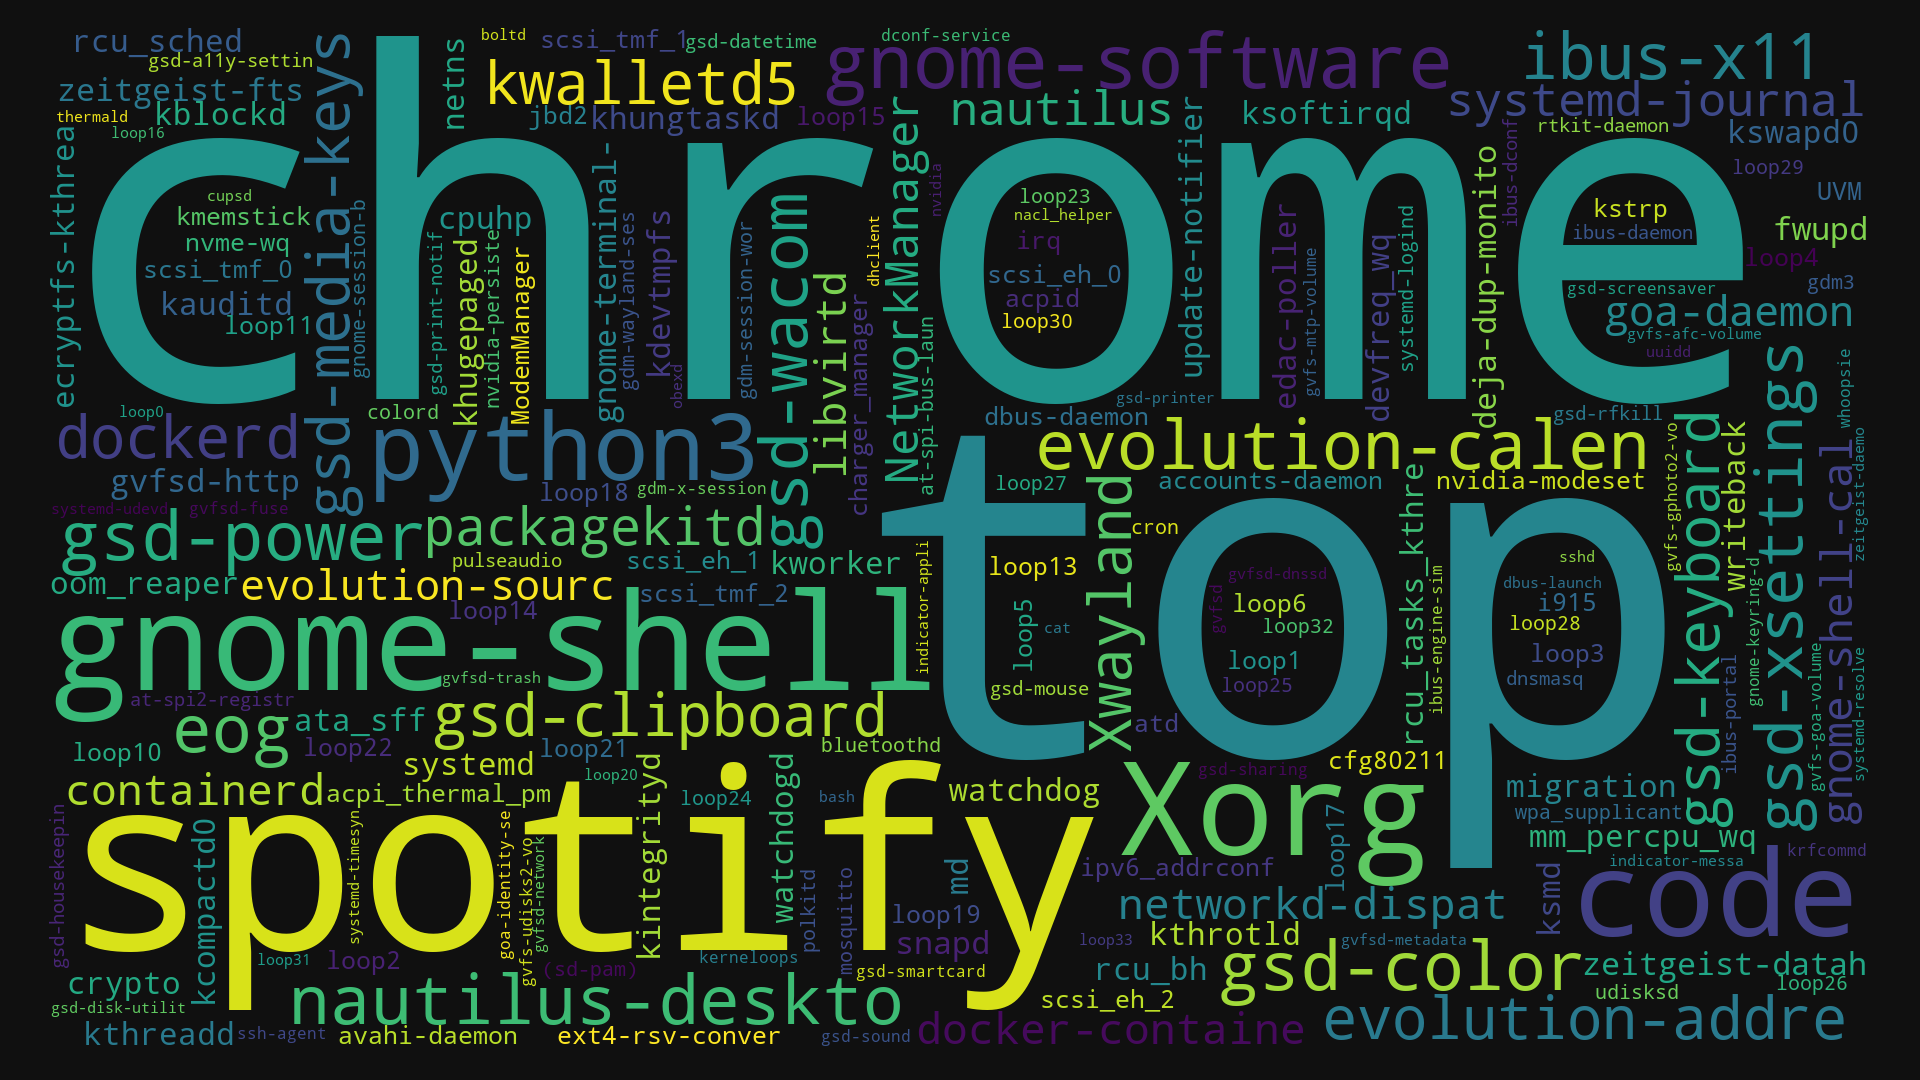
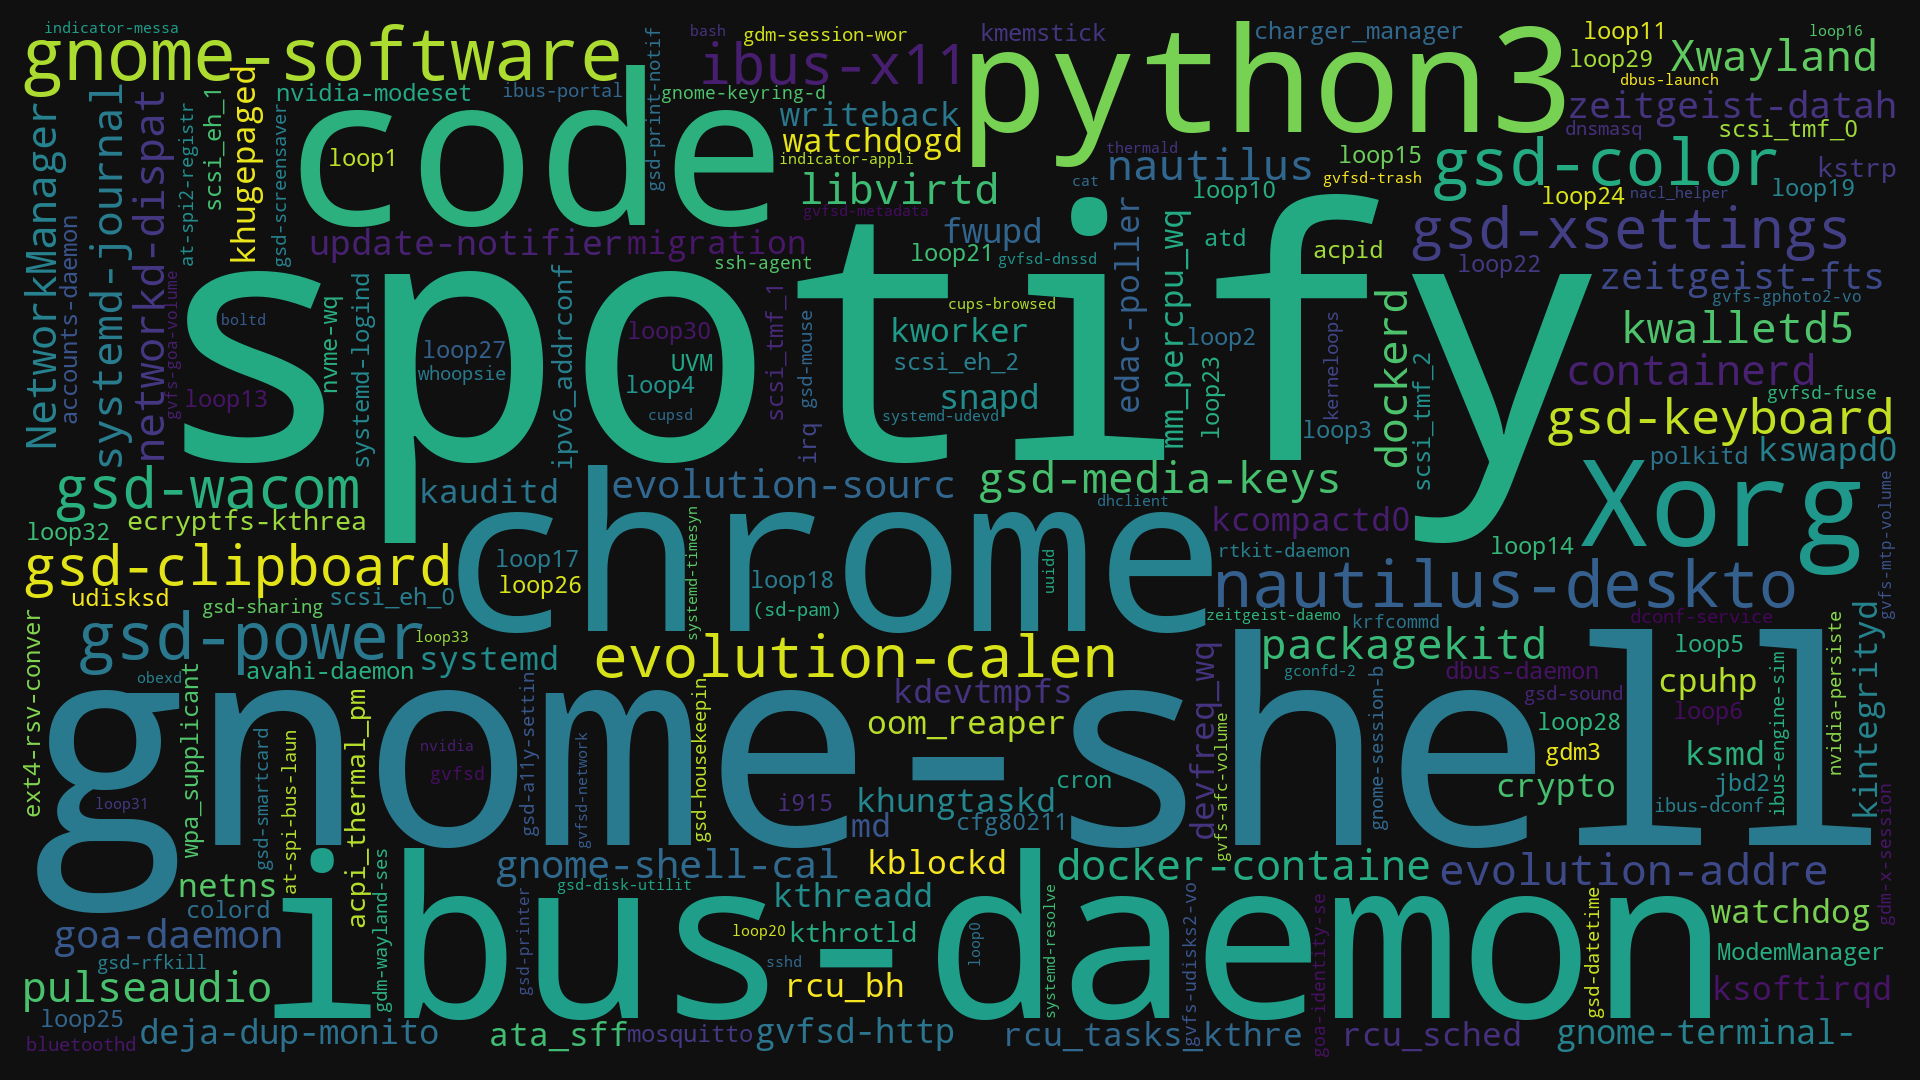
Slight changes to generateWallpaper.py and config.json

diff --git a/generateWallpaper.py b/generateWallpaper.py
@@ -21,7 +21,8 @@ with open("top.out", "r") as topFile:
         cpu = float(fields[8])
         mem = float(fields[9])
 
-        commandList.append((command, cpu, mem))
+        if command != "top":
+            commandList.append((command, cpu, mem))
     
 
 commandDict = {}
@@ -42,8 +43,8 @@ configJSON = json.loads(open("config.json", "r").read())
 
 wc = WordCloud(
     background_color = configJSON["wordcloud"]["background"],
-    width = int(configJSON["resolution"]["width"] * (1 - configJSON["wordcloud"]["margin"])),
-    height = int(configJSON["resolution"]["height"] * (1 - configJSON["wordcloud"]["margin"]))
+    width = int(configJSON["resolution"]["width"] - 2 * configJSON["wordcloud"]["margin"]),
+    height = int(configJSON["resolution"]["height"] - 2 * configJSON["wordcloud"]["margin"])
 ).generate_from_frequencies(resourceDict)
 
 wc.to_file('wc.png')
@@ -53,8 +54,8 @@ wallpaper = Image.new('RGB', (configJSON["resolution"]["width"], configJSON["res
 wallpaper.paste(
     wordcloud, 
     (
-        int(configJSON["resolution"]["width"] * configJSON["wordcloud"]["margin"] / 2), 
-        int(configJSON["resolution"]["height"] * configJSON["wordcloud"]["margin"] / 2)
+        configJSON["wordcloud"]["margin"],
+        configJSON["wordcloud"]["margin"]
     )    
 )
 wallpaper.save("wallpaper.png")
